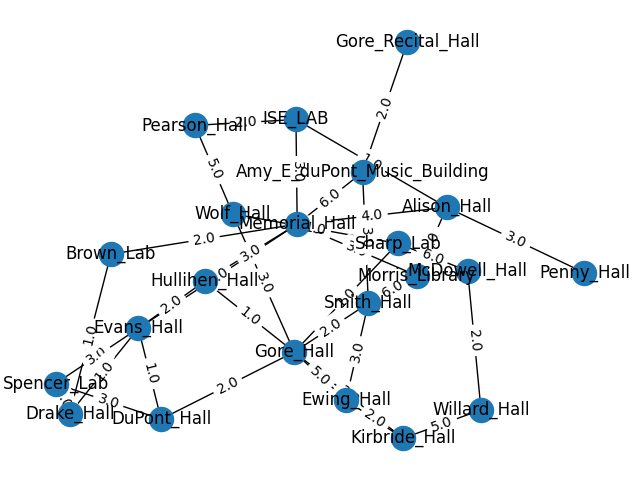
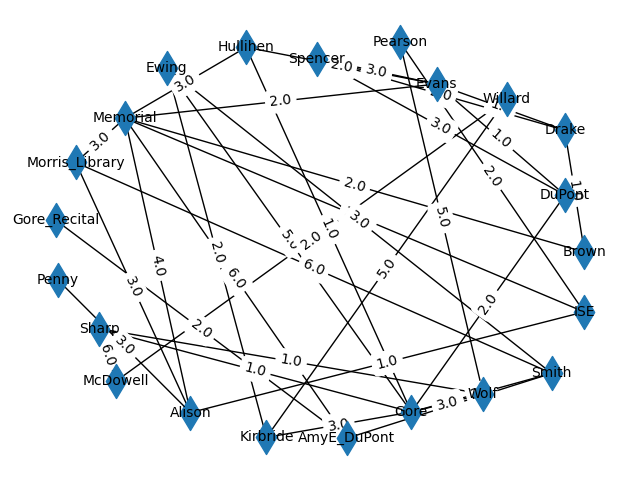
Got a pretty close graph

Changed region(s): [[0.0, 0.0625, 1.0, 0.9688], [0.8125, 0.3438, 0.8438, 0.375], [0.5, 0.2812, 0.5312, 0.3125]]

diff --git a/Prims.py b/Prims.py
@@ -2,17 +2,18 @@ import networkx as nx
 from networkx.algorithms import tree
 import matplotlib.pyplot as plt
 
+#like k=10 seed=5
 
 
 G = nx.read_weighted_edgelist("./PrimsGraphEdgeList.txt")
-pos = nx.spring_layout(G, k=1, seed=10)
+pos = nx.spring_layout(G, k=10, seed=5)
 mst = nx.minimum_spanning_edges(G, algorithm="prim", data=False)
 edgelist = list(mst)
 print(edgelist)
 
-nx.draw(G,pos, with_labels=True, )
+nx.draw(G,pos, with_labels=True,node_shape="d", font_size=10 )
 edge_labels = nx.get_edge_attributes(G, "weight")
 nx.draw_networkx_edge_labels(G, pos, edge_labels)
 
-plt.savefig('./test.png')
+plt.savefig('./AcedemicBuildingGraph.png')
 
